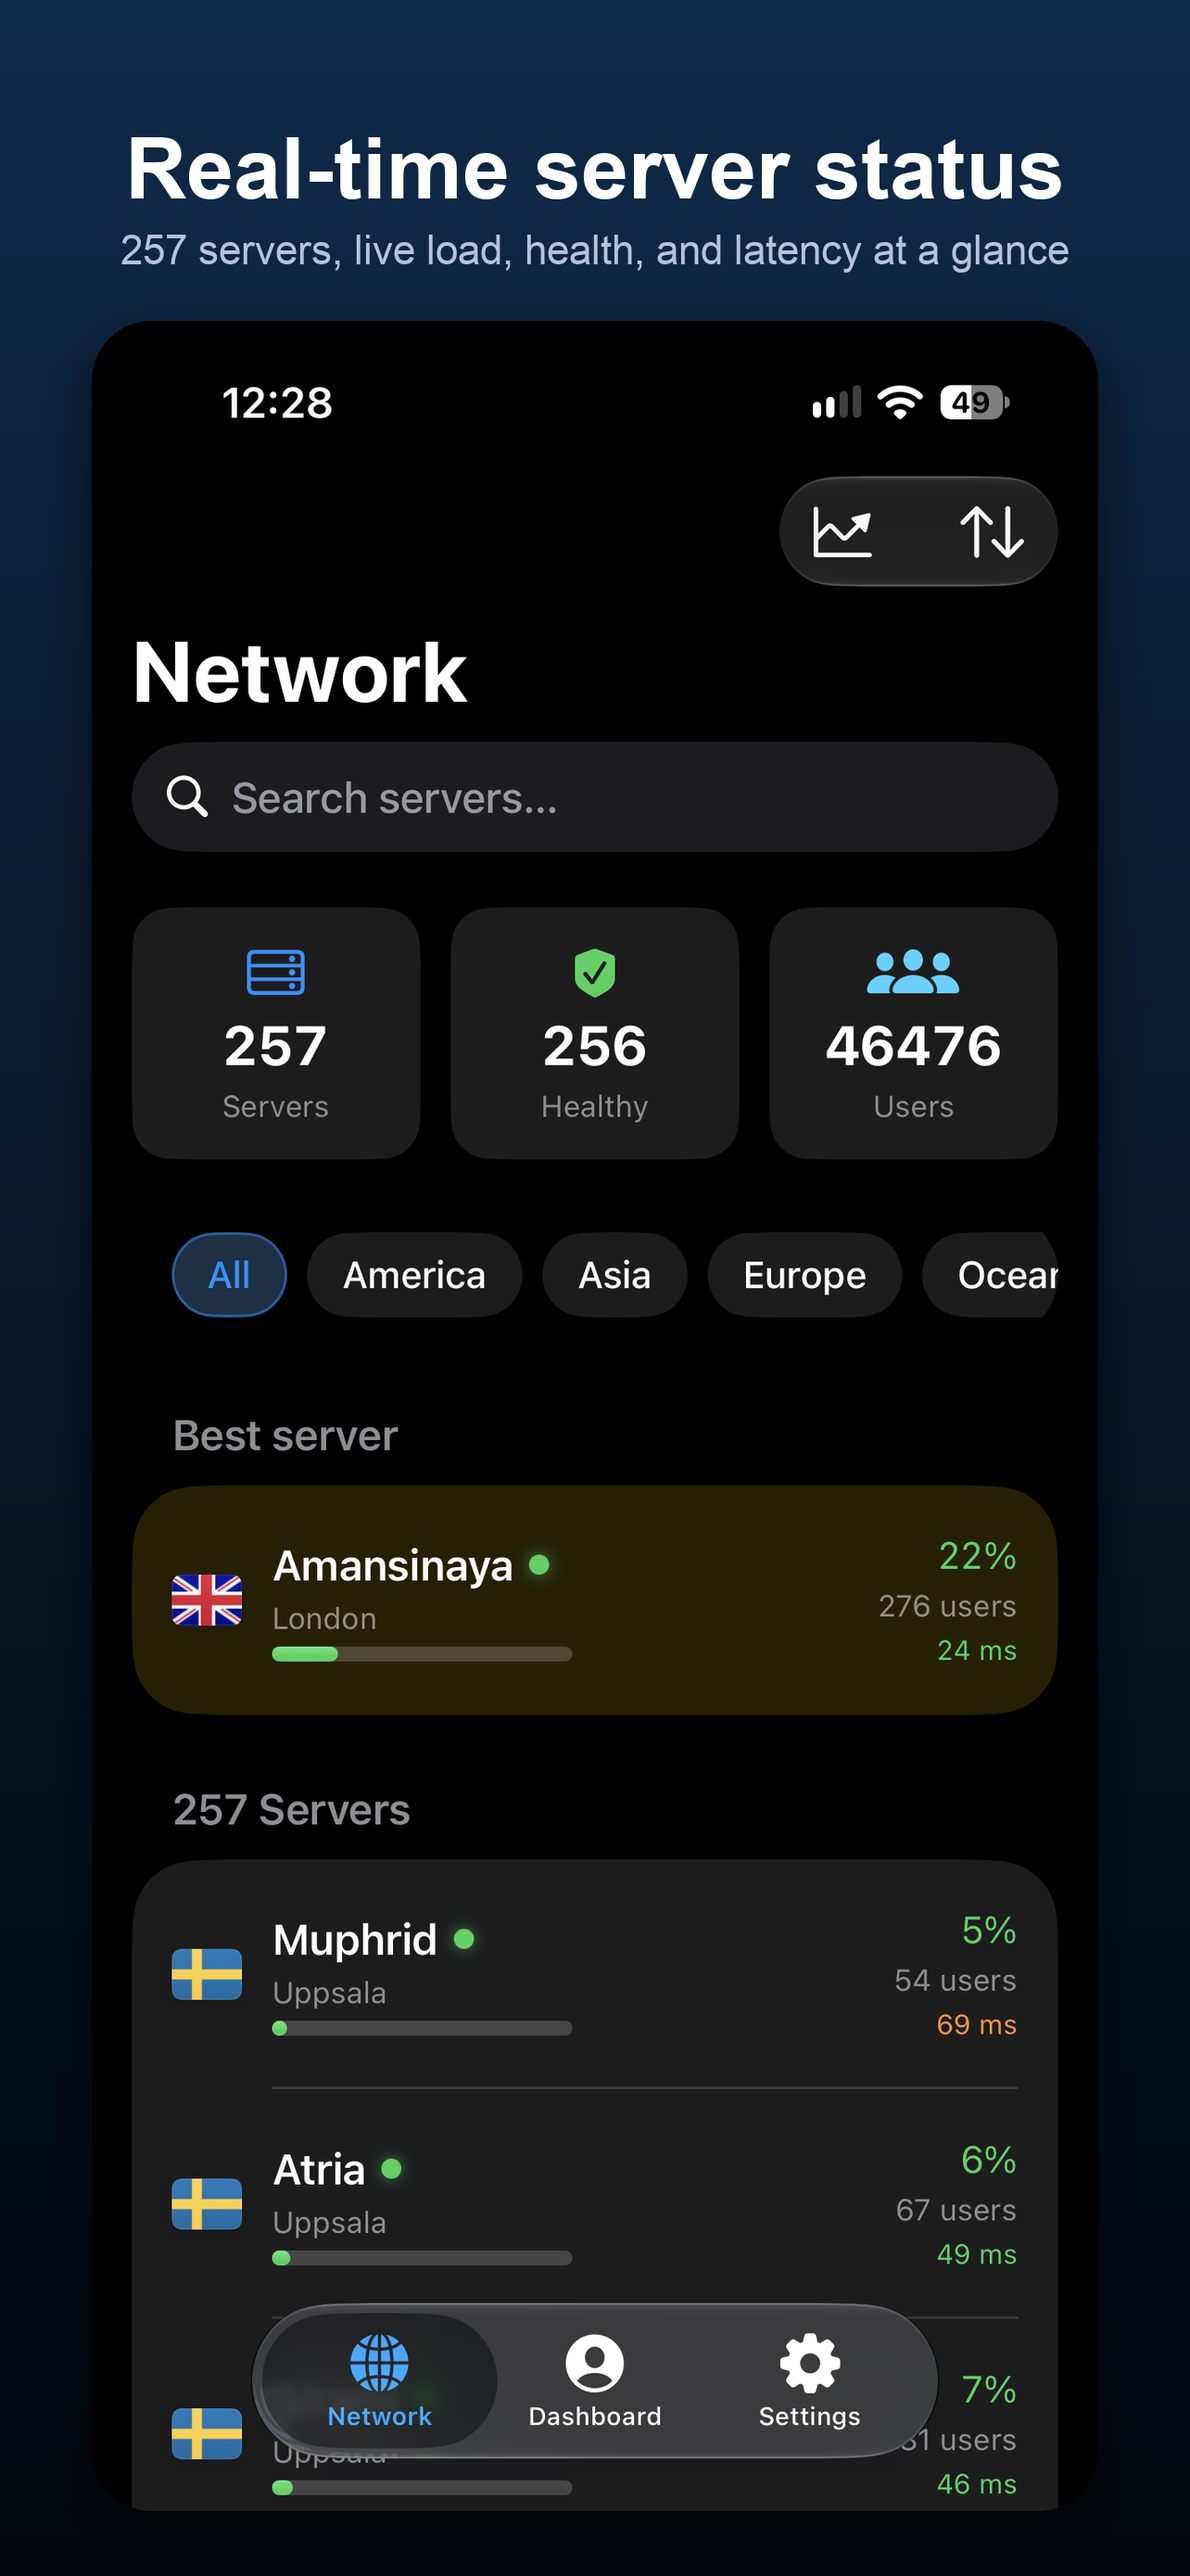
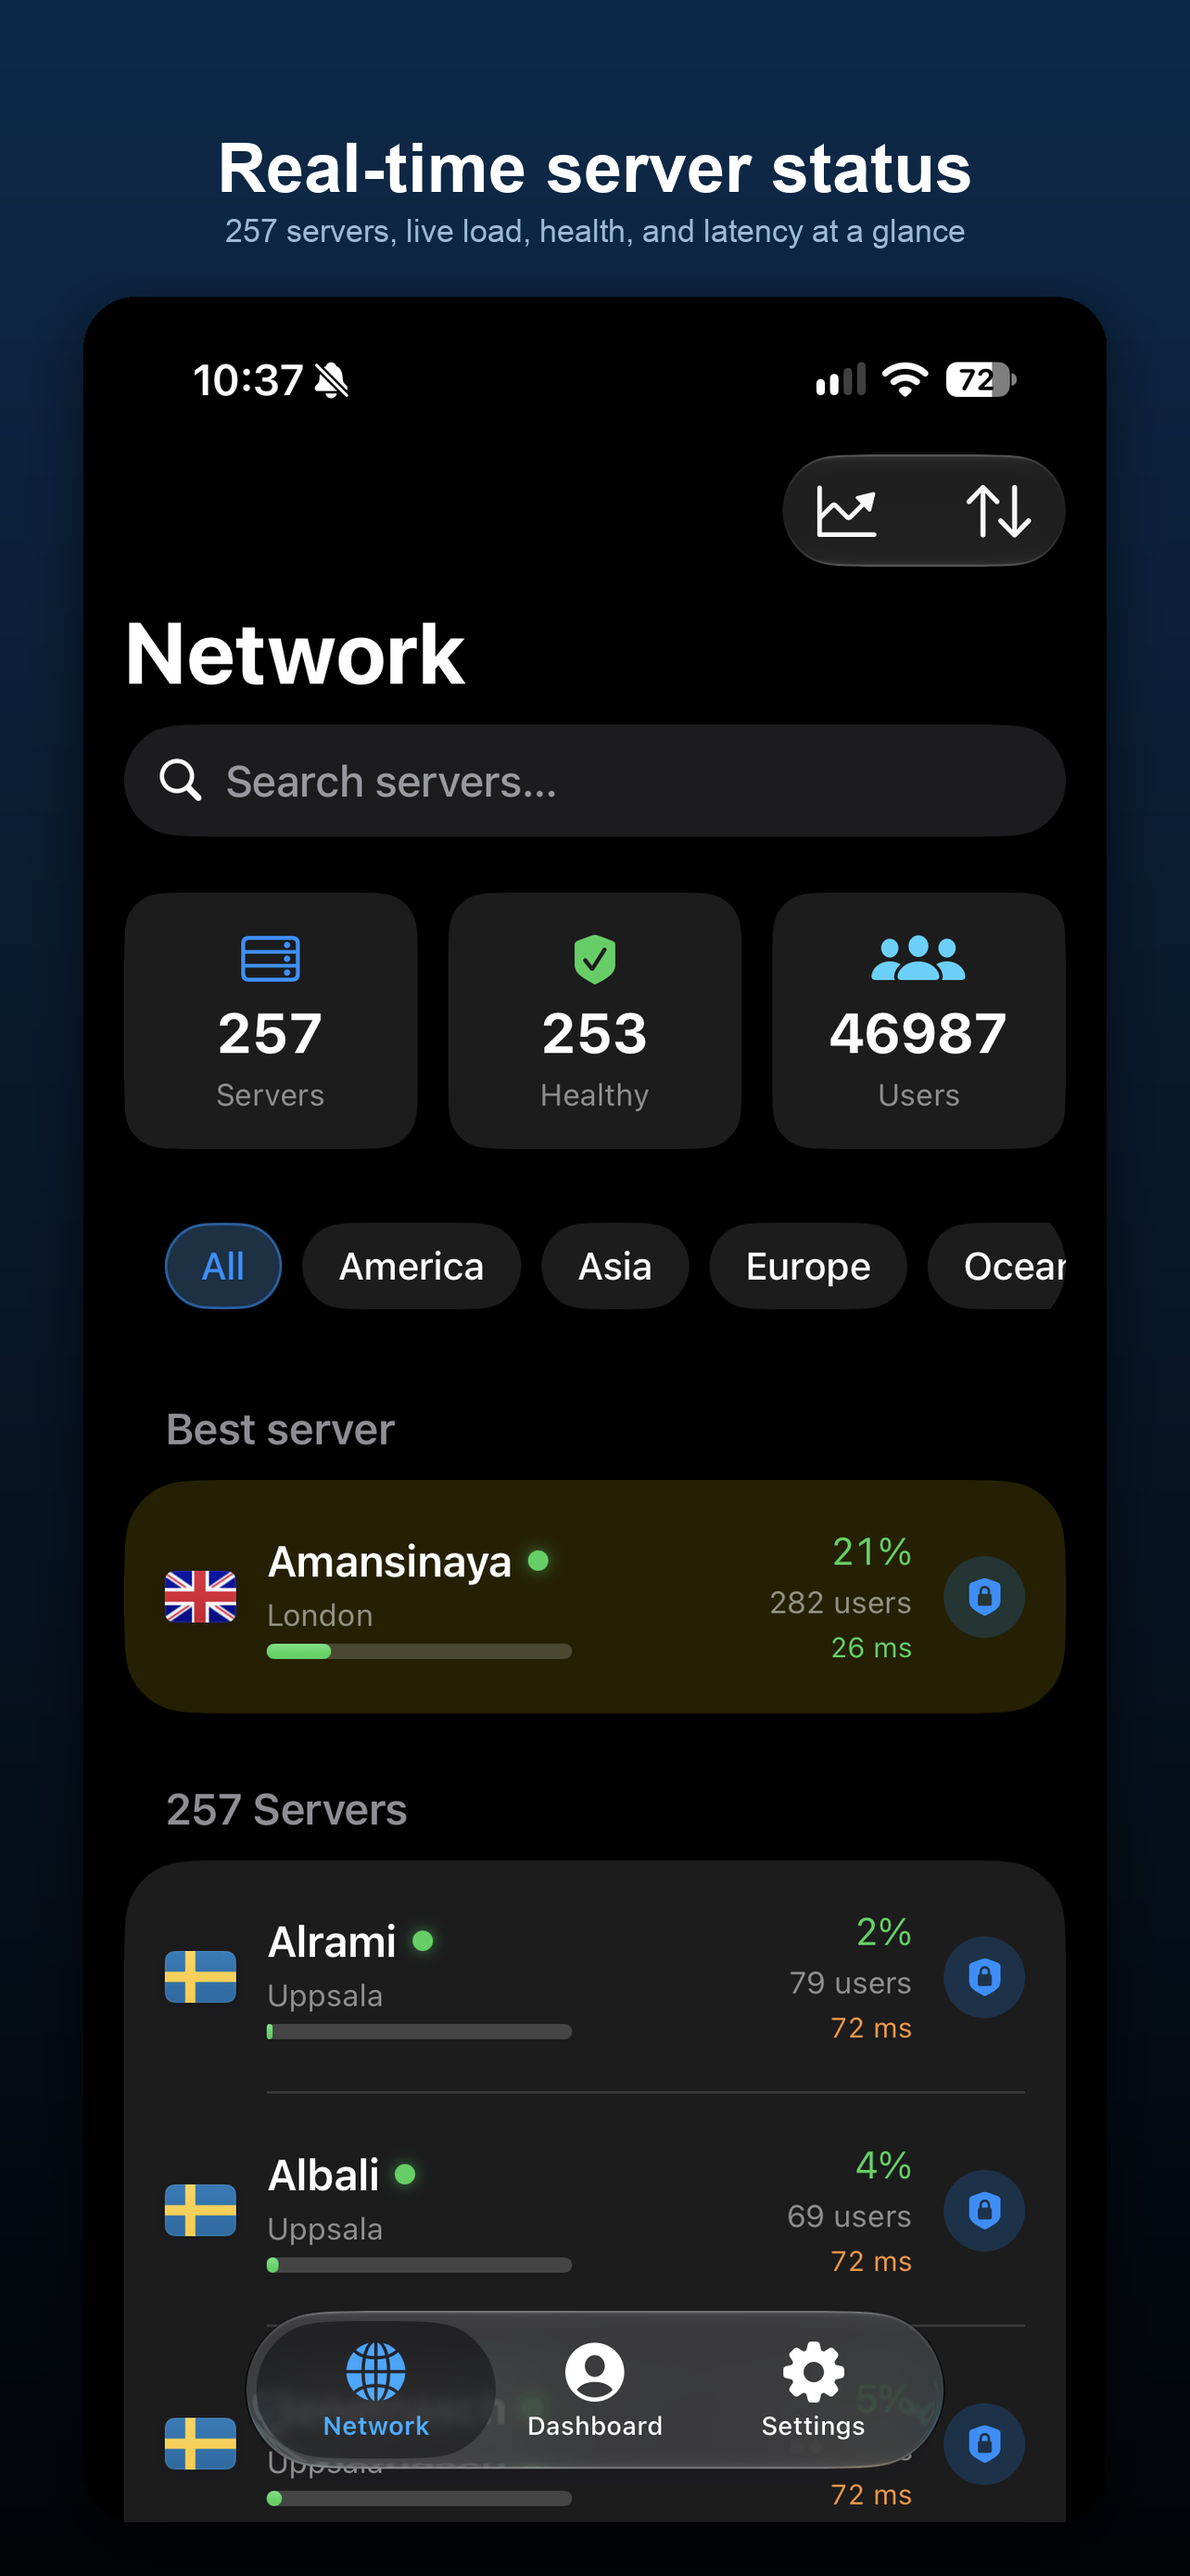
Update README with iPad screenshots and new features
Add iPad marketing screenshots, refresh the Network screenshot to
show the new quick-connect button, and document Live Activity, the
iPad sidebar, and the per-row quick connect. Reword the tagline to
reflect that the app is now a dashboard and VPN client, not just a
dashboard.

Changed region(s): [[0.0623, 0.031, 0.9346, 0.6501], [0.0935, 0.743, 0.9034, 0.9906], [0.1246, 0.6811, 0.3427, 0.712]]

diff --git a/README.md b/README.md
@@ -4,7 +4,7 @@
 
 [![Build](https://github.com/zlimteck/AirDash/actions/workflows/build.yml/badge.svg)](https://github.com/zlimteck/AirDash/actions/workflows/build.yml)
 
-Unofficial native iOS dashboard for [AirVPN](https://airvpn.org), built with SwiftUI and the iOS 26 Liquid Glass design.
+Unofficial native iOS dashboard and VPN client for [AirVPN](https://airvpn.org), built with SwiftUI and the iOS 26 Liquid Glass design.
 
 > ⭐ If you find this project useful, a star on GitHub is greatly appreciated!
 
@@ -22,15 +22,26 @@ Unofficial native iOS dashboard for [AirVPN](https://airvpn.org), built with Swi
   <img src="assets/screenshot-connect.png" width="18%" alt="Native VPN connect" />
 </p>
 
+### iPad
+
+<p float="left">
+  <img src="assets/screenshot-ipad-login.png" width="32%" alt="iPad Login" />
+  <img src="assets/screenshot-ipad-network.png" width="32%" alt="iPad Network" />
+  <img src="assets/screenshot-ipad-dashboard.png" width="32%" alt="iPad Dashboard" />
+  <img src="assets/screenshot-ipad-server-detail.png" width="32%" alt="iPad Server detail" />
+  <img src="assets/screenshot-ipad-connect.png" width="32%" alt="iPad Native VPN connect" />
+</p>
+
 ---
 
 ## Features
 
-- **Network**: full server list with load, users, health, ping latency, sort (load / name / ping), continent filter, search and favorites (scoped per account)
+- **Network**: full server list with load, users, health, ping latency, sort (load / name / ping), continent filter, search and favorites (scoped per account); a one-tap connect button on every row starts the native tunnel directly, no need to open the server detail screen (full build only)
 - **Best Server**: automatically picked from live ping and load, weighted so a congested server can't win purely on a low ping; instantly shows the previous session's result while the fresh ping sweep is running
 - **Server history & trends** (opt-in, off by default): load and connected-users charts per server over 1h/24h/7d/30d, a reliability breakdown (healthy vs warning/error) also surfaced as a badge on favorite servers and in Trends, a peak-hours chart highlighting the quietest 3-hour window from 7 days of history, and a Trends screen ranking servers by average load over a rolling window; all powered by a companion history service, not the official AirVPN API. Enable it in Settings; see [Privacy Policy](PRIVACY.md) for exactly what that service sees
 - **Server comparison**: long-press any server to add it to a comparison (up to 3); tap the toolbar button to view them side by side, including bandwidth and (if the history feature above is enabled) an overlaid load-history chart across the compared servers
 - **Native VPN (WireGuard)**: connect and disconnect straight from the app via `NetworkExtension`, no external VPN app required; live tunnel status card on the Dashboard with swipe to disconnect, one profile saved and reused (regenerated only on explicit action). Only available in the full build; see [Full vs Lite build](#full-vs-lite-build) below
+- **Live Activity**: shows the active native VPN session (connected server, duration) on the lock screen and in the Dynamic Island, driven live by the tunnel's status; full build only
 - **Dashboard**: account info (current IP, VPN status, expiration, credits, sessions, member since); swipe left on a session to disconnect (also stops the native tunnel if it's this device's own session), tap a session to jump to its server detail
 - **Server detail**: WireGuard or OpenVPN profile generation, direct import into the system VPN app, share and QR code (WireGuard) in a `···` menu; a direct **Connect** button for WireGuard (native build only), skipping the generate/share step; recent profiles per server with one-tap reimport, shown with the protocol's logo
 - **Recent profiles page**: dedicated list of all generated profiles with search, sort, filter by protocol, quick import, QR code and delete; profile history is stored securely in the Keychain
@@ -61,6 +72,7 @@ Unofficial native iOS dashboard for [AirVPN](https://airvpn.org), built with Swi
 | Localisation | String Catalog (FR / EN) |
 | Build | XcodeGen (`project.yml`), two schemes: `AirDash` (full) and `AirDash-Lite` |
 | VPN | `NEPacketTunnelProvider` + [WireGuardKit](https://github.com/zlimteck/wireguard-apple) (fork), full build only |
+| Live Activity | ActivityKit, lock screen and Dynamic Island, full build only |
 | Dependencies | [FlagKit](https://github.com/madebybowtie/FlagKit) |
 
 ---
@@ -213,7 +225,7 @@ Server history, reliability, and the Trends ranking are **opt-in, off by default
 
 ## Compatibility
 
-- iPhone and iPad
+- iPhone and iPad, with a native collapsible sidebar on iPad (`.tabViewStyle(.sidebarAdaptable)`)
 - iOS 26 or later
 
 ---
